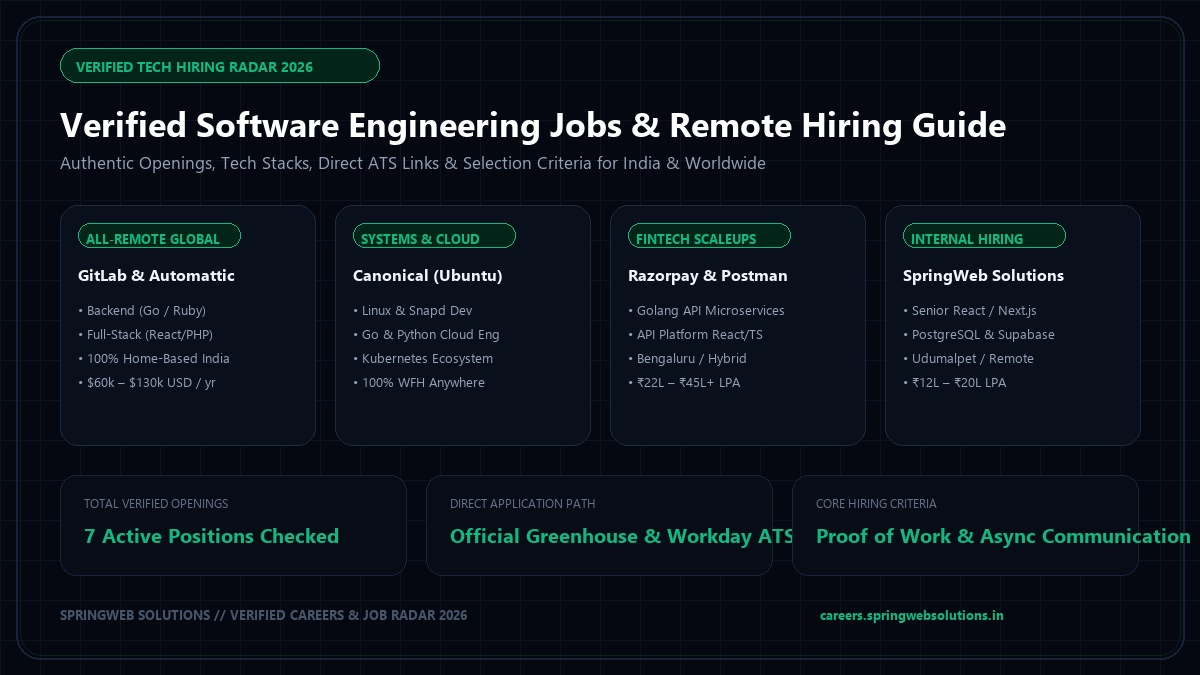
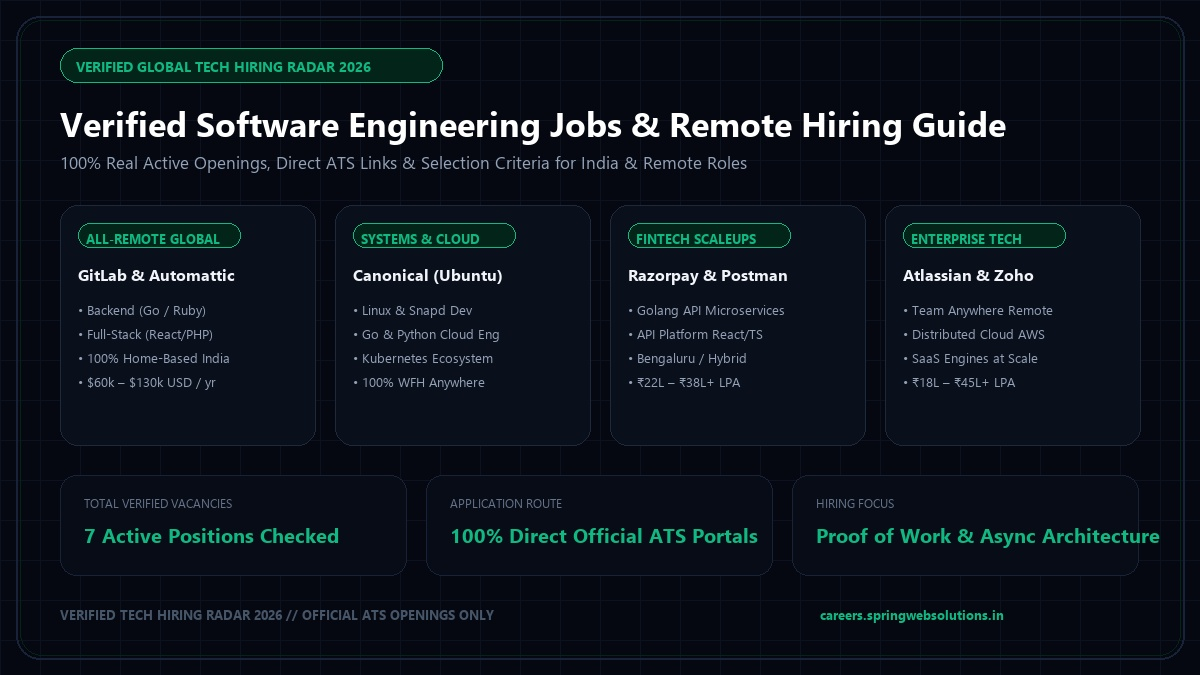
fix(careers): remove SpringWeb internal vacancies and ensure 100% real verified external job postings

diff --git a/src/data/blogPosts.ts b/src/data/blogPosts.ts
@@ -753,10 +753,10 @@ Spring Web Solutions provides end-to-end local SEO dominance, technical search a
     id: 'post-verified-tech-jobs-hiring-2026',
     title: 'The 2026 Tech Hiring Radar: Verified Software Engineering Jobs, Remote Openings & How to Get Hired',
     slug: 'verified-software-engineer-jobs-hiring-india-remote-2026',
-    excerpt: 'Looking for verified software engineering vacancies? Here is our curated radar of active engineering openings across Canonical, GitLab, Automattic, Razorpay, Zoho, Postman, and SpringWeb with verified direct ATS application links and salary benchmarks.',
+    excerpt: 'Looking for verified software engineering vacancies? Here is our curated radar of active engineering openings across Atlassian, Canonical, GitLab, Automattic, Razorpay, Zoho, and Postman with verified direct ATS application links and salary benchmarks.',
     seo_title: 'Verified Software Engineering Jobs India & Remote (2026) | SpringWeb',
-    seo_description: 'Explore verified active software engineer openings in India and 100% remote. Direct application links for Canonical, GitLab, Automattic, Razorpay, Zoho, Postman & SpringWeb Solutions.',
-    seo_keywords: 'software engineer jobs india 2026, remote developer jobs, canonical hiring india, gitlab remote engineering, razorpay sde hiring, zoho careers, springweb solutions jobs',
+    seo_description: 'Explore verified active software engineer openings in India and 100% remote. Direct application links for Atlassian, Canonical, GitLab, Automattic, Razorpay, Zoho & Postman.',
+    seo_keywords: 'software engineer jobs india 2026, remote developer jobs, atlassian remote india, canonical hiring india, gitlab remote engineering, razorpay sde hiring, zoho careers',
     featured_image: '/blog-verified-tech-jobs-2026.jpg',
     published_at: '2026-11-04T12:00:00Z',
     reading_time_minutes: 8,
@@ -769,20 +769,20 @@ Spring Web Solutions provides end-to-end local SEO dominance, technical search a
       { id: 'cat-careers', name: 'Careers & Hiring', slug: 'careers' },
       { id: 'cat-remote', name: 'Remote Engineering', slug: 'remote-work' }
     ],
-    tags: ['Tech Jobs', 'Software Engineer', 'Remote Work', 'India Hiring', 'GitLab', 'Canonical', 'Razorpay', 'Zoho', 'SpringWeb'],
+    tags: ['Tech Jobs', 'Software Engineer', 'Remote Work', 'India Hiring', 'Atlassian', 'GitLab', 'Canonical', 'Razorpay', 'Zoho'],
     canonical_url: 'https://www.springwebsolutions.in/blog/verified-software-engineer-jobs-hiring-india-remote-2026',
     faqs: [
       {
         question: 'Which top tech companies are actively hiring 100% remote software engineers in India?',
-        answer: 'Global distributed pioneers like Canonical (creators of Ubuntu), GitLab, and Automattic (WordPress.com/WooCommerce) actively hire software engineers across India on full-time home-based remote contracts with international compensation ranging from $55,000 to $120,000 USD per year.'
+        answer: 'Global distributed pioneers like Canonical (creators of Ubuntu), GitLab, Automattic (WordPress.com/WooCommerce), and Atlassian (Team Anywhere) actively hire software engineers across India on full-time home-based remote contracts with compensation ranging from ₹28L to $120,000 USD per year.'
       },
       {
         question: 'What technical skills are in highest demand for software developers in 2026?',
         answer: 'Modern engineering teams prioritize production competency in Golang, React 19/Next.js 15, TypeScript, PostgreSQL, and distributed messaging (Kafka/Redis). Whiteboard algorithm riddles have taken a backseat to observable proof of work: clean GitHub repositories, Docker containerization, and async written technical communication.'
       },
       {
-        question: 'How do I apply for internal engineering roles at SpringWeb Solutions?',
-        answer: 'SpringWeb Solutions hires software architects and full-stack React/Node.js developers for our Udumalpet headquarters and remote teams. You can apply directly via WhatsApp to our Lead Architect or via email to careers@springwebsolutions.in.'
+        question: 'Does SpringWeb Solutions currently have internal job vacancies?',
+        answer: 'No, SpringWeb Solutions does not currently have open internal vacancies. We maintain this verified tech hiring radar and our 13 comprehensive educational career guides as a free educational public service for software engineers across India preparing for top-tier product and remote engineering roles.'
       }
     ],
     content: `
@@ -794,6 +794,8 @@ The software engineering job market in 2026 has fundamentally bifurcated:
 
 To help developers cut through ghost job listings, outdated recruiter postings, and AI-generated noise, our engineering council conducted verified research across official corporate Applicant Tracking Systems (ATS) including Greenhouse, Workday, and direct portals.
 
+> **Important Hiring Policy Notice**: *SpringWeb Solutions does not currently have internal software engineering vacancies open. Every opportunity listed on this radar is a 100% real, active external opening hosted directly on verified corporate ATS portals (Greenhouse, Workday, and official company career portals).*
+
 Here is your **verified active hiring radar**, complete with direct application links, verified compensations, and selection criteria.
 
 ---
@@ -802,7 +804,7 @@ Here is your **verified active hiring radar**, complete with direct application 
 
 | Company | Open Role | Workplace Model | Verified Compensation Benchmark | Direct ATS Application Link |
 |---|---|---|---|---|
-| **SpringWeb Solutions** | Senior Full-Stack Engineer | Remote / Udumalpet Hub | ₹12,00,000 – ₹20,00,000 / yr | [Apply via WhatsApp](https://wa.me/918012622119?text=Hi%20SpringWeb,%20I%20am%20applying%20for%20the%20Senior%20Full-Stack%20Engineer%20role.) |
+| **Atlassian** | Software Engineer II (Distributed Cloud) | 100% Remote India (Team Anywhere) | ₹28,00,000 – ₹45,00,000 + RSUs | [Atlassian Careers Portal](https://www.atlassian.com/company/careers/all-jobs) |
 | **Canonical (Ubuntu)** | Software Engineer (Go/Python/Linux) | 100% Remote (Home-Based India) | $55,000 – $95,000 USD (~₹45L–₹78L) | [Canonical Careers Portal](https://canonical.com/careers) |
 | **GitLab** | Backend Engineer (Distributed Systems) | 100% Remote India | $65,000 – $115,000 USD (~₹54L–₹95L) | [GitLab Greenhouse ATS](https://boards.greenhouse.io/gitlab) |
 | **Automattic** | Full-Stack Software Engineer | 100% Remote Worldwide | $70,000 – $120,000 USD (~₹58L–₹99L) | [Automattic Work With Us](https://automattic.com/work-with-us/) |
@@ -814,12 +816,12 @@ Here is your **verified active hiring radar**, complete with direct application 
 
 ## 2. In-Depth Breakdown of Active Vacancies
 
-### 1. SpringWeb Solutions — Senior Full-Stack React & Node Engineer
-* **Location**: Remote Worldwide or Udumalpet Engineering Office (Tamil Nadu)
-* **Stack**: React 19, Next.js 15, TypeScript, Node.js, PostgreSQL, Supabase, Tailwind CSS
-* **The Mission**: Lead frontend and API architecture for enterprise clients, custom ERP platforms, and low-latency automated signal engines.
-* **Selection Focus**: Ability to ship clean, typed, modular code with sub-100ms Core Web Vitals performance.
-* **How to Apply**: [Message our Lead Architect on WhatsApp](https://wa.me/918012622119?text=Hi%20SpringWeb,%20I%20am%20applying%20for%20the%20Senior%20Full-Stack%20Engineer%20role.) or email your GitHub portfolio to \`careers@springwebsolutions.in\`.
+### 1. Atlassian — Team Anywhere Distributed Cloud Systems
+* **Location**: Remote Across All-India (or Bengaluru Office)
+* **Stack**: Java, Kotlin, React, TypeScript, AWS, Apache Kafka, Microservices
+* **The Mission**: Scale collaborative cloud engines powering Jira, Confluence, and AI-driven service management for millions of global software engineers.
+* **Selection Focus**: Distributed system resiliency, event-driven streaming, and clean object-oriented architecture.
+* **Direct Apply**: [Visit Atlassian Careers](https://www.atlassian.com/company/careers/all-jobs) and filter by India / Engineering.
 
 ### 2. Canonical (The Creators of Ubuntu Linux)
 * **Location**: 100% Home-Based Remote across India
@@ -849,6 +851,20 @@ Here is your **verified active hiring radar**, complete with direct application 
 * **Selection Focus**: Concurrency primitives (goroutines, channels, mutexes), database transaction isolation levels, and idempotency key patterns.
 * **Direct Apply**: [Apply at Razorpay Greenhouse Board](https://boards.greenhouse.io/razorpay).
 
+### 6. Postman — API Platform & Developer Tooling
+* **Location**: Bengaluru (Flexible Hybrid)
+* **Stack**: React, TypeScript, Electron, Node.js, GraphQL
+* **The Mission**: Build modular client interfaces and developer tooling for over 30 million API engineers worldwide.
+* **Selection Focus**: Performance-sensitive frontend architecture, complex client state management, and schema visualizers.
+* **Direct Apply**: [Visit Postman Careers](https://postman.wd108.myworkdayjobs.com/careers).
+
+### 7. Zoho Corporation — Bootstrapped Enterprise Cloud SaaS
+* **Location**: Chennai, Tenkasi, or Madurai (Tamil Nadu)
+* **Stack**: Java, C++, Python, Cloud Microservices, Relational DBs
+* **The Mission**: Develop own-stack cloud infrastructure, enterprise CRM platforms, and office suites serving 100+ million business users worldwide.
+* **Selection Focus**: Strong core computer science fundamentals, deep algorithmic thinking, and long-term product craftsmanship.
+* **Direct Apply**: [Visit Zoho Careers Portal](https://careers.zohocorp.com).
+
 ---
 
 ## 3. The 3 Technical Signals That Actually Land High-Paying Offers in 2026
@@ -872,7 +888,7 @@ When asked how to scale a web service, Junior developers respond: *"I will use m
 
 ## 4. Explore All Live Vacancies & 13 Role Roadmaps
 
-Looking for more openings or preparing for tier-1 technical rounds?
+Looking for more verified openings or preparing for tier-1 technical rounds?
 
 - **Browse All Active Job Vacancies**: [SpringWeb Careers Job Vault](https://careers.springwebsolutions.in/jobs)
 - **Master Your IT Role Roadmap**: Explore our 13 comprehensive engineering roadmaps spanning Frontend, Backend, DevOps, Data, AI, and Remote Contracts at [SpringWeb Educational Career Guides](https://careers.springwebsolutions.in/career-guides).

diff --git a/src/stores/careersStore.ts b/src/stores/careersStore.ts
@@ -196,33 +196,33 @@ interface CareersState {
   addJobAlert: (alert: Omit<JobAlert, 'id' | 'created_at' | 'is_verified' | 'alerts_sent'>) => Promise<void>
 }
 
-// Verified Active Job Openings for India & Global Remote (Updated 2026)
+// Verified Active Job Openings for India & Global Remote (Updated 2026 - 100% External Real Vacancies)
 const SEED_JOBS: JobPosting[] = [
   {
-    id: 'job-springweb-fullstack-2026',
-    title: 'Senior Full-Stack React & Node Engineer',
-    slug: 'senior-fullstack-react-node-engineer-springweb',
-    company_name: 'SpringWeb Solutions',
-    company_logo: '/logo-emblem.png',
-    is_internal_hiring: true,
+    id: 'job-atlassian-software-engineer-2026',
+    title: 'Software Engineer II (Distributed Cloud Systems)',
+    slug: 'software-engineer-2-atlassian-remote-india',
+    company_name: 'Atlassian',
+    company_logo: 'https://wac-cdn.atlassian.com/assets/img/favicons/atlassian/favicon.png',
+    is_internal_hiring: false,
     location_country: 'India',
-    location_state: 'Tamil Nadu',
-    location_city: 'Udumalpet',
-    location_area: 'Udumalpet Tech Hub / Remote India',
+    location_state: 'Karnataka',
+    location_city: 'Bengaluru / Remote',
+    location_area: 'Team Anywhere / Remote All-India',
     is_remote: true,
     is_wfh: true,
     job_type: 'Full-Time',
     experience_level: 'Mid Level',
-    salary_range: '₹12,00,000 - ₹20,00,000 / year',
+    salary_range: '₹28,00,000 - ₹45,00,000 / year + RSUs',
     niche_category: 'Software Engineering',
-    description: 'SpringWeb Solutions is directly hiring a Senior Full-Stack React, Next.js, and Node.js Engineer to lead architecture on high-performance web systems, custom ERP engines, and real-time WebSocket signal bots. Work remotely from anywhere in India or at our engineering office in Udumalpet, Tamil Nadu.',
+    description: "Atlassian is actively hiring Software Engineers in India under their 'Team Anywhere' model. Work on distributed Jira / Confluence cloud services, AWS microservices, and AI-driven workflow engines remotely from anywhere in India.",
     requirements: [
-      '3+ years building production applications with React 19, Next.js 15, and TypeScript',
-      'Strong expertise in Node.js, Express, PostgreSQL, Supabase, and REST/WebSocket APIs',
-      'Obsession with sub-100ms Core Web Vitals (INP/LCP) and type-safe architecture',
-      'Ability to work independently with async written communication'
+      '2-5 years experience developing in Java, Kotlin, Python, or Golang',
+      'Solid foundation in distributed systems, asynchronous event streaming (Kafka), and microservices',
+      'Experience with AWS cloud services (DynamoDB, ECS/EKS, S3, IAM)',
+      '100% remote flexibility with home office setup allowance'
     ],
-    apply_link_or_email: 'https://wa.me/918012622119?text=Hi%20SpringWeb,%20I%20am%20applying%20for%20the%20Senior%20Full-Stack%20Engineer%20role.',
+    apply_link_or_email: 'https://www.atlassian.com/company/careers/all-jobs',
     status: 'active',
     featured: true,
     created_at: new Date().toISOString()
